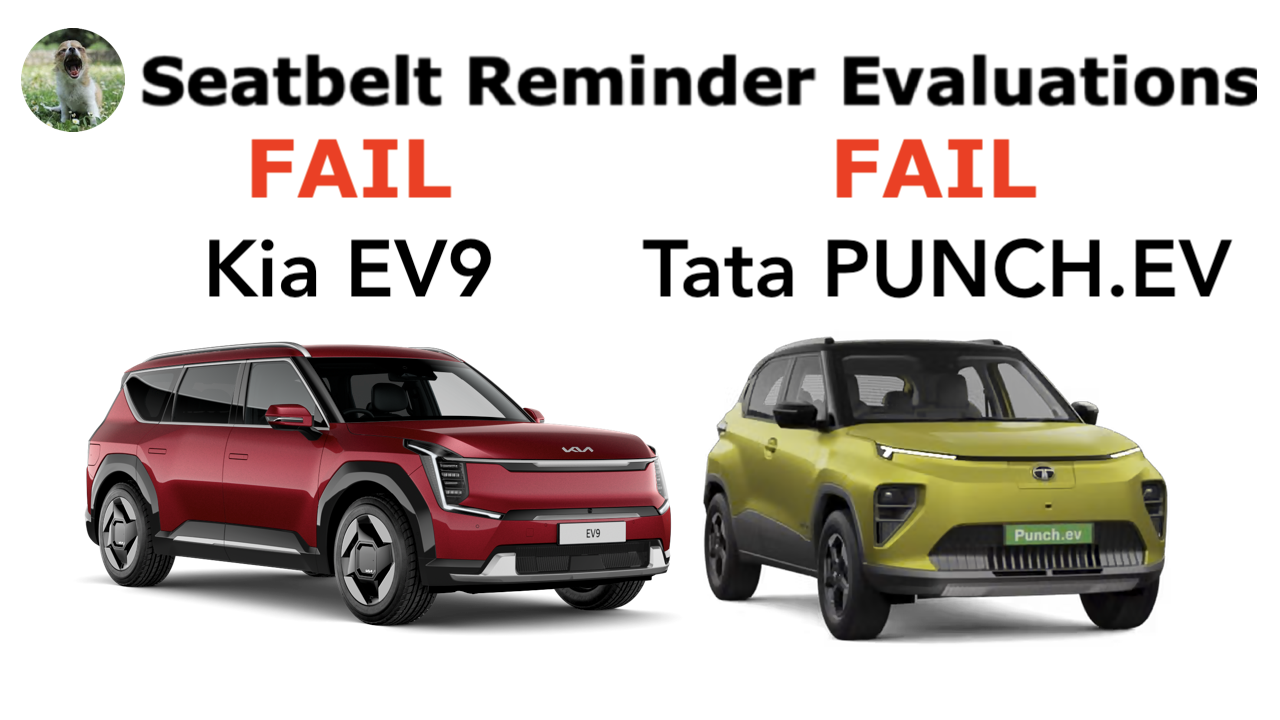
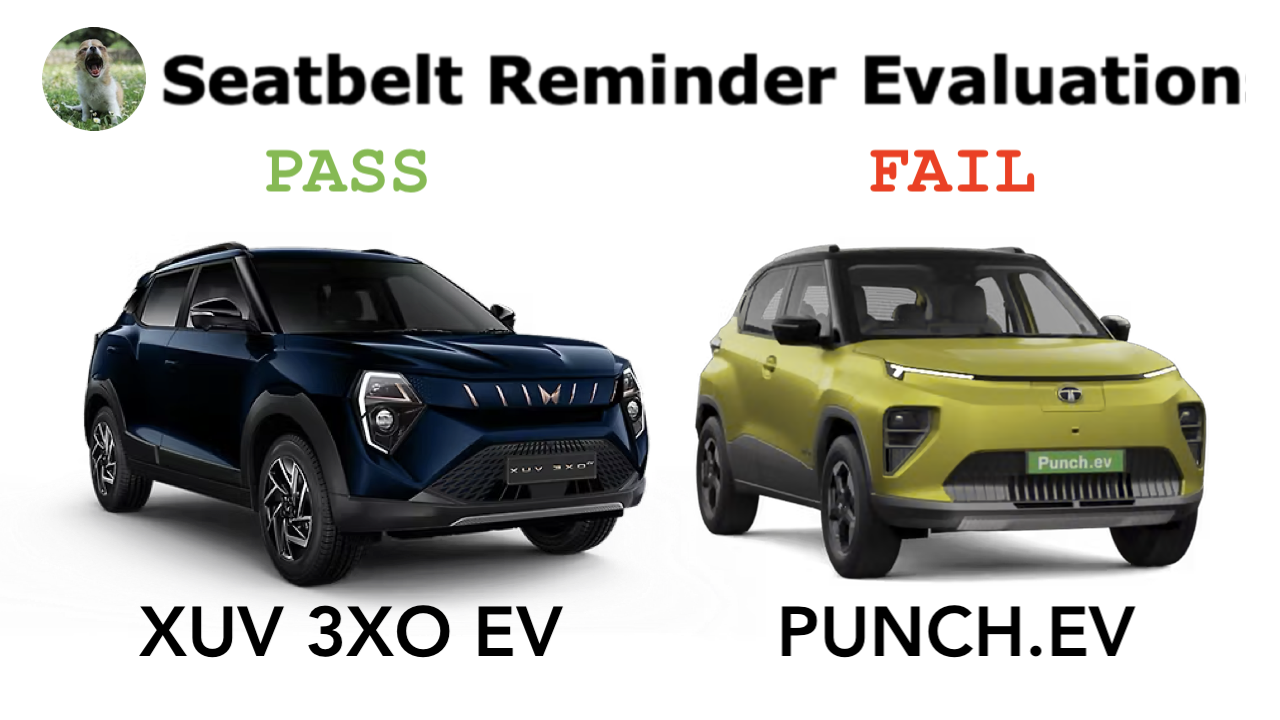
Add XUV 3XO EV to 10Apr, move EV9 to 11Apr

diff --git a/articles/N202604101/index.html b/articles/N202604101/index.html
@@ -3,15 +3,15 @@
     <head>
     <link rel="icon" type="image/x-icon" href="https://theyawninchihua.github.io/theyawninchihua/theyawninchihua.png">
     <font face="Verdana">
-        <title>Two India-spec EVs fail The Yawning Chihuahua's Rear Seatbelt Reminder Evaluation | The Yawning Chihuahua</title>
+        <title>Two India-spec EVs in The Yawning Chihuahua's Rear Seatbelt Reminder Evaluation | The Yawning Chihuahua</title>
         <!-- The type of card. "summary_large_image" shows a big image preview -->
         <meta name="twitter:card" content="summary_large_image">
         <!-- Your site's X handle (optional) -->
         <meta name="twitter:site" content="@theyawninchihua">
         <!-- The title of your page (max 70 characters) -->
-        <meta name="twitter:title" content="Two India-spec EVs fail TYC's Rear Seatbelt Reminder Evaluation">
+        <meta name="twitter:title" content="Two India-spec EVs in TYC's Rear Seatbelt Reminder Evaluation">
         <!-- A brief summary of your content (max 200 characters) -->
-        <meta name="twitter:description" content="Punch.ev and India-spec EV9 skip rear occupant detection.">
+        <meta name="twitter:description" content="Punch.ev and XUV 3XO EV evaluated.">
         <!-- The FULL URL to the image you want to show (must be absolute, not relative) -->
         <meta name="twitter:image" content="https://theyawninchihua.github.io/theyawninchihua/articles/N202604101/banner.png">
         <center>
@@ -25,22 +25,22 @@
     <font face="Verdana">
         <b>NOTICE</b><br>
 
-        <h1>Two India-spec EVs fail The Yawning Chihuahua's Rear Seatbelt Reminder Evaluation</h1>
+        <h1>Two India-spec EVs in The Yawning Chihuahua's Rear Seatbelt Reminder Evaluation</h1>
         <b>10.04.2026</b><br><br>
 
         <img src="banner.png" width="400" border="1"><br><br>
 
-        The rear seatbelt reminder (SBR) evaluations for two models <a href="../../sbr/index.html">have been published today</a>: the facelifted Tata Punch.ev and Kia EV9.<br><br>
+        The rear seatbelt reminder (SBR) evaluations for two models <a href="../../sbr/index.html">have been published today</a>: the <a href="../../sbr/evaluations/2026-04-10-PUNCHEV-Smart30kWh.html">Tata Punch.ev</a> and <a href="../../sbr/evaluations/2026-04-10-XUV3XOEV-AX539kWh.html">Mahindra XUV 3XO EV</a>.<br><br>
         
-        Tata's affordable electric SUV, the <a href="../../sbr/evaluations/2026-04-10-PUNCHEV-Smart30kWh.html">Tata Punch.ev</a>, receives a <font face="Courier New" color="red"><b>FAIL</b></font> result: its rear seats have no occupant detection, and it issues its second-level audio and visual signal when any rear seatbelt is not fastened, regardless of occupancy.<br><br>
+        Recently facelifted, the affordable electric <a href="../../sbr/evaluations/2026-04-10-PUNCHEV-Smart30kWh.html">Tata Punch.ev</a> receives a <font face="Courier New" color="red"><b>FAIL</b></font> result: its rear seats have no occupant detection. Even for a system without occupant detection, the Punch.ev presents a unique problem: while most seatbelt reminders on the market without occupant detection tend to wait for a belt to first change status (thereby failing to notify many unbelted occupants), the Punch.ev's rudimentary seatbelt reminder instead issues a second-level audio and visual signal <b>when any rear seatbelt is not fastened, regardless of occupancy</b>. These "ghost" alerts can annoy the driver to the extent of encouraging tampering with the system or perpetually keeping the rear seatbelts fastened.<br><br>
 
-        Even more surprisingly, the expensive, imported <a href="../../sbr/evaluations/2026-04-10-EV9-GTLineAWD.html">Kia EV9</a> sold in India does not behave like some of its overseas versions do, and receives a <font face="Courier New" color="red"><b>FAIL</b></font> result: it would fail to notify unbelted occupants in common scenarios. Based on its documentation, the India-spec version's rear seat belt reminder does not have occupant detection, and only issues an audio signal when a rear seatbelt is fastened and then unfastened on the move. This is <b>unlike the behaviour seen in EV9s destined for Europe and Australasia, which have occupant detection in the rear outboard seats</b>, a prerequisite to score seat belt reminder points in those markets' respective consumer test programmes Euro NCAP and ANCAP.<br><br>
+        On the contrary, the recently launched <a href="../../sbr/evaluations/2026-04-10-XUV3XOEV-AX539kWh.html">Mahindra XUV 3XO EV</a> receives a <font face="Courier New" color="green"><b>PASS</b></font>: it notifies the driver with a second-level audio and visual warning if and only if a seatbelt is not fastened on an occupied rear seat.<br><br>
 
         More information about results, datasheets, sources of information, and evaluation criteria are at the following links:
         <ul>
             <li><a href="../../sbr/index.html">2026 Rear Seatbelt Reminder Evaluations</a></li>
             <li><a href="../../sbr/evaluations/2026-04-10-PUNCHEV-Smart30kWh.html">Datasheet for Tata Punch.ev</a></li>
-            <li><a href="../../sbr/evaluations/2026-04-10-EV9-GTLineAWD.html">Datasheet for Kia EV9</a></li>
+            <li><a href="../../sbr/evaluations/2026-04-10-XUV3XOEV-AX539kWh.html">Datasheet for Mahindra XUV 3XO EV</a></li>
         </ul>
 
         -TYC<br><br>

diff --git a/sbr/evaluations/2026-04-10-XUV3XOEV-AX539kWh.html b/sbr/evaluations/2026-04-10-XUV3XOEV-AX539kWh.html
@@ -1,0 +1,59 @@
+<!DOCTYPE html>
+<html>
+    <head>
+    <link rel="icon" type="image/x-icon" href="https://theyawninchihua.github.io/theyawninchihua/theyawninchihua.png">
+    <font face="Verdana">
+        <title>XUV 3XO EV seatbelt reminder evaluation | The Yawning Chihuahua</title>
+        <center>
+            <img src="../../theyawninchihua.png" width="45"><br>
+            <b>The Yawning Chihuahua</b><br>
+            <a href="https://theyawninchihua.github.io/theyawninchihua">Home</a> | <a href="https://theyawninchihua.github.io/theyawninchihua/sbr">Seatbelt reminder evaluation</a> | <a href="https://x.com/theyawninchihua">Twitter</a> | <a href="https://instagram.com/theyawninchihua">Instagram</a> | <a href="https://youtube.com/@theyawninchihua">YouTube</a> | <a href="https://gobarncrap.wixsite.com/gobar-ncrap/blog">Legacy website</a>
+        </center>
+    </font>
+    </head>
+    <body>
+    <font face="Verdana">
+        <b>SEATBELT REMINDER EVALUATION</b><br>
+
+        <h1>Mahindra XUV 3XO EV</h1>
+        <b>AX5 39 kWh</b><br>
+
+        <h2>Result: <font face="Courier New"><font color="green"><b>PASS</b></font></font></h2>
+
+        <br><b>DATASHEET:</b><br>
+            <font face="Courier New">
+            <nobr>
+            +-------------------------------------+--------------+---------------+<br>
+            | 2nd row outboard seatbelt reminder- | audio signal | visual signal |<br>
+            | second level warning--------------- | ------------ | ------------- |<br>
+            +-------------------------------------+--------------+---------------+<br>
+            | belt not fastened on empty seat---- | ----<font color="green"><b>-NO</b></font>----- | -----<font color="green"><b>-NO</b></font>----- |<br>
+            | belt unfastened on empty seat------ | ----<font color="green"><b>-NO</b></font>----- | -----<font color="green"><b>-NO</b></font>----- |<br>
+            | belt not fastened on occupied seat- | ----<font color="green"><b>YES</b></font>----- | -----<font color="green"><b>YES</b></font>----- |<br>
+            | belt unfastened on occupied seat--- | ----<font color="green"><b>YES</b></font>----- | -----<font color="green"><b>YES</b></font>----- |<br>
+            +-------------------------------------+--------------+---------------+<br>
+            | ----------------------------------- | -----<font color="green"><b>OK</b></font>----- | ------<font color="green"><b>OK</b></font>----- |<br>
+            +-------------------------------------+--------------+---------------+<br>
+            | Result----------------------------- | ------------<font color="green"><b>PASS</b></font>------------ |<br>
+            +-------------------------------------+------------------------------+<br><br>
+            </nobr>
+        </font>
+
+        <b>REASON FOR SELECTION: </b>Not evaluated before. The XUV 3XO EV is a new launch.<br>
+
+        <b>COMMENTS: </b>From the XUV 3XO EV's owners' manual:<br>"2.3.7 Passenger Occupant Detection System (PODS) and Seat Belt Reminder Indication<br>PODS detects the presence of occupant in the front passenger and on all rear seating locations.
+GraphicGraphic
+If Occupant is present on front passenger and rear passenger seats and not wearing the seat belt, seat belt reminder warning symbol lamp will glow on the vehicle instrument cluster panel and will be continuous until the seat belt is buckled.
+It should be noted that the PODS require a minimum weight hence children may not be detected by PODS. Along with this warning symbol, a chime and alert in cluster will be ON for 95 second for front seat belt reminder and 35 second for rear passenger seat belt reminder.
+Do keep in mind that after market seat covers also may deteriorate the occupant detection sensor performance, don't use the non recommended/non authorized seat covers."<br>
+
+        <b>PUBLICATION DATE: </b>10.04.2026<br>
+
+        <b>MANUAL LINK: </b><a href="https://mvault-cloudfront.mahindra.com/Owner's-Manual/XUV%203XO%20EV_HTML_27Feb2026/default.htm">https://mvault-cloudfront.mahindra.com/Owner's-Manual/XUV%203XO%20EV_HTML_27Feb2026/default.htm</a><br>
+
+        <b>BROCHURE LINK: </b><a href="https://auto.mahindra.com/on/demandware.static/-/Sites-amc-Library/default/dw2183d955/XUV3XO_ev/brochures/XUV-3XO-EV-Brochure.pdf">https://auto.mahindra.com/on/demandware.static/-/Sites-amc-Library/default/dw2183d955/XUV3XO_ev/brochures/XUV-3XO-EV-Brochure.pdf</a><br><br>
+
+        <a href="../index.html">click to go back to seatbelt reminder evaluations</a>
+    </font>
+    </body>
+</html>

diff --git a/articles/N202604111/index.html b/articles/N202604111/index.html
@@ -1,0 +1,48 @@
+<!DOCTYPE html>
+<html>
+    <head>
+    <link rel="icon" type="image/x-icon" href="https://theyawninchihua.github.io/theyawninchihua/theyawninchihua.png">
+    <font face="Verdana">
+        <title>India-spec Kia EV9 fails The Yawning Chihuahua's Rear Seatbelt Reminder Evaluation | The Yawning Chihuahua</title>
+        <!-- The type of card. "summary_large_image" shows a big image preview -->
+        <meta name="twitter:card" content="summary_large_image">
+        <!-- Your site's X handle (optional) -->
+        <meta name="twitter:site" content="@theyawninchihua">
+        <!-- The title of your page (max 70 characters) -->
+        <meta name="twitter:title" content="India-spec Kia EV9 fails TYC's Rear Seatbelt Reminder Evaluation">
+        <!-- A brief summary of your content (max 200 characters) -->
+        <meta name="twitter:description" content="Indian model stripped of rear occupant detection.">
+        <!-- The FULL URL to the image you want to show (must be absolute, not relative) -->
+        <meta name="twitter:image" content="https://theyawninchihua.github.io/theyawninchihua/articles/N202604111/banner.png">
+        <center>
+            <img src="../../theyawninchihua.png" width="45"><br>
+            <b>The Yawning Chihuahua</b><br>
+            <a href="https://theyawninchihua.github.io/theyawninchihua">Home</a> | <a href="https://theyawninchihua.github.io/theyawninchihua/sbr">Seatbelt reminder evaluation</a> | <a href="https://x.com/theyawninchihua">Twitter</a> | <a href="https://instagram.com/theyawninchihua">Instagram</a> | <a href="https://youtube.com/@theyawninchihua">YouTube</a> | <a href="https://gobarncrap.wixsite.com/gobar-ncrap/blog">Legacy website</a>
+        </center>
+    </font>
+    </head>
+    <body>
+    <font face="Verdana">
+        <b>NOTICE</b><br>
+
+        <h1>India-spec Kia EV9 fails The Yawning Chihuahua's Rear Seatbelt Reminder Evaluation</h1>
+        <b>11.04.2026</b><br><br>
+
+        <img src="banner.png" width="400" border="1"><br><br>
+
+        The rear seatbelt reminder (SBR) evaluation for the India-spec Kia EV9 <a href="../../sbr/index.html">has been published today</a>.<br><br>
+
+        The <a href="../../sbr/evaluations/2026-04-10-EV9-GTLineAWD.html">Kia EV9</a> arrives in India as an import, but does not behave like some of its overseas versions do, and receives a <font face="Courier New" color="red"><b>FAIL</b></font> result: the India-spec version would fail to notify unbelted occupants in common scenarios. Based on its documentation, the India-spec version's rear seat belt reminder does not have occupant detection, and only issues an audio signal when a rear seatbelt is fastened and then unfastened on the move.<br><br>Importantly, this is <b>unlike the behaviour seen in EV9s destined for Europe and Australasia, which have occupant detection in the rear outboard seats</b>, a prerequisite to score seat belt reminder points in those markets' respective consumer test programmes Euro NCAP and ANCAP.<br><br>
+
+        More information about results, datasheets, sources of information, and evaluation criteria are at the following links:
+        <ul>
+            <li><a href="../../sbr/index.html">2026 Rear Seatbelt Reminder Evaluations</a></li>
+            <li><a href="../../sbr/evaluations/2026-04-10-EV9-GTLineAWD.html">Datasheet for Kia EV9</a></li>
+        </ul>
+
+        -TYC<br><br>
+
+        <a href="../../index.html">click to go back home</a>
+    </font>
+    </body>
+</html>

diff --git a/sbr/evaluations/2026-04-11-EV9-GTLineAWD.html b/sbr/evaluations/2026-04-11-EV9-GTLineAWD.html
@@ -59,7 +59,7 @@ When the vehicle is ON, the warning light will illuminate for approximately 6 se
 
 Unbuckling the seatbelt before the vehicle comes to a complete stop will cause an alarm to sound and the seatbelt reminder light to blink. This warning may continue for up to 35 seconds after you exit the vehicle. Always unbuckle your seatbelt only after the vehicle has come to a complete stop."<br>
 
-        <b>PUBLICATION DATE: </b>10.04.2026<br>
+        <b>PUBLICATION DATE: </b>11.04.2026<br>
 
         <b>MANUAL LINK: </b><a href="https://www.kia.com/in/service/customer-awareness/owners-manual/ev9-manual.html">https://www.kia.com/in/service/customer-awareness/owners-manual/ev9-manual.html</a><br>
 
